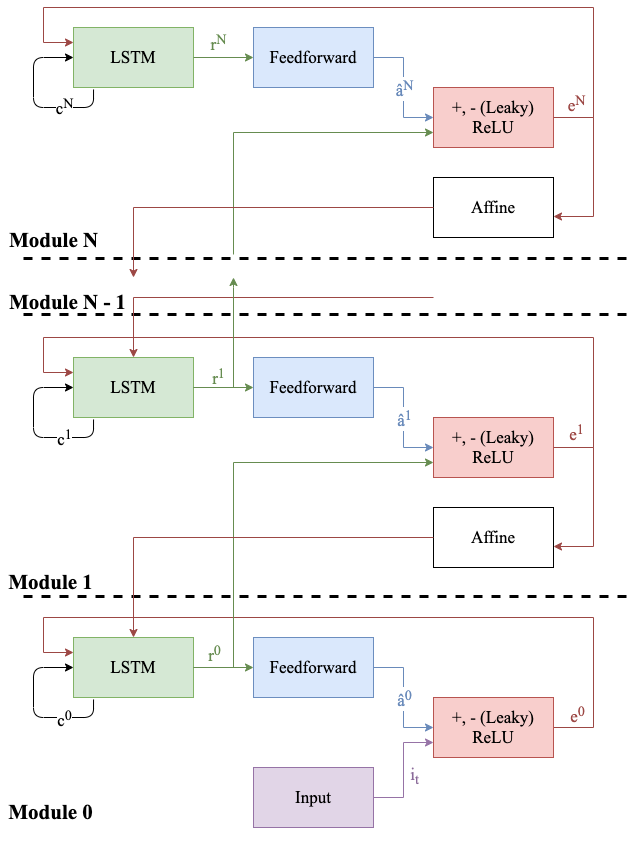
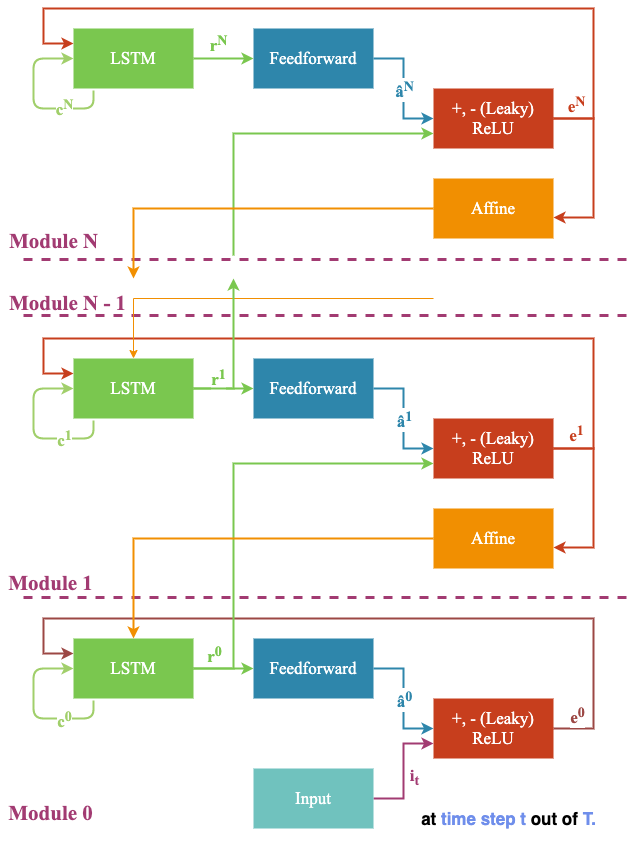
Eval scripts for sota; update graphics.

diff --git a/harry_potter_eval_model_from_checkpoint_sota.py b/harry_potter_eval_model_from_checkpoint_sota.py
@@ -1,0 +1,57 @@
+import argparse
+import glob
+import os
+
+from lstmlm import *
+from harry_potter_data_util import *
+
+
+def load_last_from_checkpoint(log_path, version_number):
+    # find all checkpoints
+    checkpoint_pattern = os.path.join(log_path, 'default', 
+        f'version_{version_number}', 'checkpoints', 'epoch=*.ckpt')
+    all_checkpoints = glob.glob(checkpoint_pattern)
+    
+    if not all_checkpoints:
+        raise Exception(f'No model checkpoints found with {checkpoint_pattern}')
+
+    # find the latest one
+    latest_epoch = 0
+    for checkpoint_path in all_checkpoints:
+        epoch = int(checkpoint_path.strip(".ckpt").split("epoch=")[-1])
+        epoch = max(latest_epoch, epoch)
+    
+    lastest_checkpoint_path = checkpoint_pattern.replace('*', str(epoch))
+    model = LSTMLM.load_from_checkpoint(lastest_checkpoint_path)
+    return model, epoch
+
+if __name__ == "__main__":
+    parser = argparse.ArgumentParser()
+    parser.add_argument(
+        "-s", 
+        "--version", 
+        type=int,
+        help="the version of the model to run"
+    )
+    parser.set_defaults(penalize_upper_levels=False)
+    args = parser.parse_args()
+
+    SEQUENCE_LENGTH = 100
+    BATCH_SIZE = 4
+    test_path = DATA_PATH + 'harry_potter_chars_test.pkl'
+    data_test = HarryPotterDataset(test_path, SEQUENCE_LENGTH, BATCH_SIZE)
+    VOCAB_SIZE = data_test.vocab_size()
+    VERSION = args.version
+    
+    assert VERSION is not None
+
+    model, epoch = load_last_from_checkpoint("lightning_logs", VERSION)
+
+    trainer = pl.Trainer()
+    test_metrics = trainer.test(
+        model, test_dataloaders=DataLoader(data_test, batch_size=BATCH_SIZE), verbose=False)
+    mean_loss = torch.mean(torch.FloatTensor([m['Loss/test'] for m in test_metrics]))
+    perplexity = torch.exp(mean_loss)
+
+    print(f'Test Loss: {mean_loss}')
+    print(f'Test perplexity: {perplexity}')

diff --git a/twitter_eval_model_from_checkpoint_sota.py b/twitter_eval_model_from_checkpoint_sota.py
@@ -1,0 +1,57 @@
+import argparse
+import glob
+import os
+
+from lstmlm import *
+from twitter_data_util import *
+
+
+def load_last_from_checkpoint(log_path, version_number):
+    # find all checkpoints
+    checkpoint_pattern = os.path.join(log_path, 'default', 
+        f'version_{version_number}', 'checkpoints', 'epoch=*.ckpt')
+    all_checkpoints = glob.glob(checkpoint_pattern)
+    
+    if not all_checkpoints:
+        raise Exception(f'No model checkpoints found with {checkpoint_pattern}')
+
+    # find the latest one
+    latest_epoch = 0
+    for checkpoint_path in all_checkpoints:
+        epoch = int(checkpoint_path.strip(".ckpt").split("epoch=")[-1])
+        epoch = max(latest_epoch, epoch)
+    
+    lastest_checkpoint_path = checkpoint_pattern.replace('*', str(epoch))
+    model = LSTMLM.load_from_checkpoint(lastest_checkpoint_path)
+    return model, epoch
+
+if __name__ == "__main__":
+    parser = argparse.ArgumentParser()
+    parser.add_argument(
+        "-s", 
+        "--version", 
+        type=int,
+        help="the version of the model to run"
+    )
+    parser.set_defaults(penalize_upper_levels=False)
+    args = parser.parse_args()
+
+    SEQUENCE_LENGTH = 100
+    BATCH_SIZE = 4
+    test_path = DATA_PATH + 'twitter_chars_test.pkl'
+    data_test = TwitterDataset(test_path, SEQUENCE_LENGTH, BATCH_SIZE)
+    VOCAB_SIZE = data_test.vocab_size()
+    VERSION = args.version
+    
+    assert VERSION is not None
+
+    model, epoch = load_last_from_checkpoint("lightning_logs", VERSION)
+
+    trainer = pl.Trainer()
+    test_metrics = trainer.test(
+        model, test_dataloaders=DataLoader(data_test, batch_size=BATCH_SIZE), verbose=False)
+    mean_loss = torch.mean(torch.FloatTensor([m['Loss/test'] for m in test_metrics]))
+    perplexity = torch.exp(mean_loss)
+
+    print(f'Test Loss: {mean_loss.item()}')
+    print(f'Test perplexity: {perplexity.item()}')
